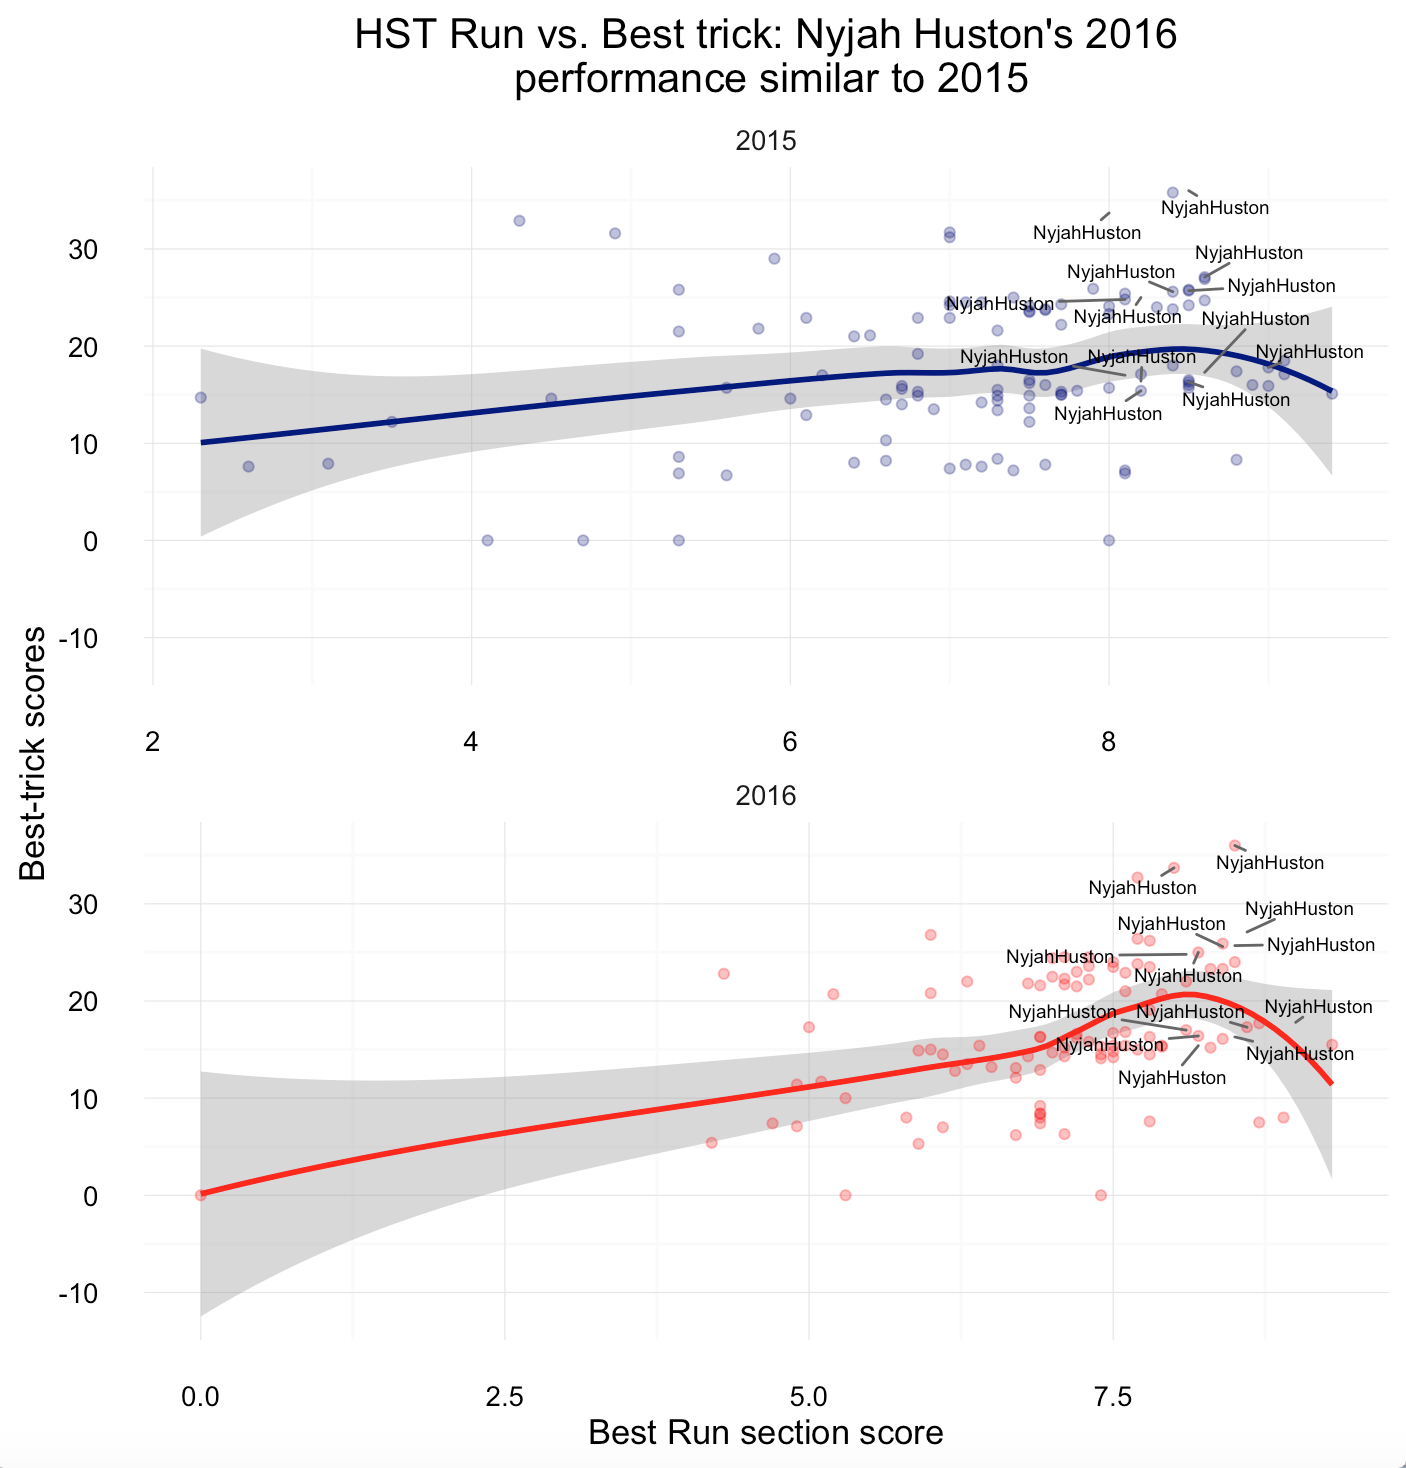
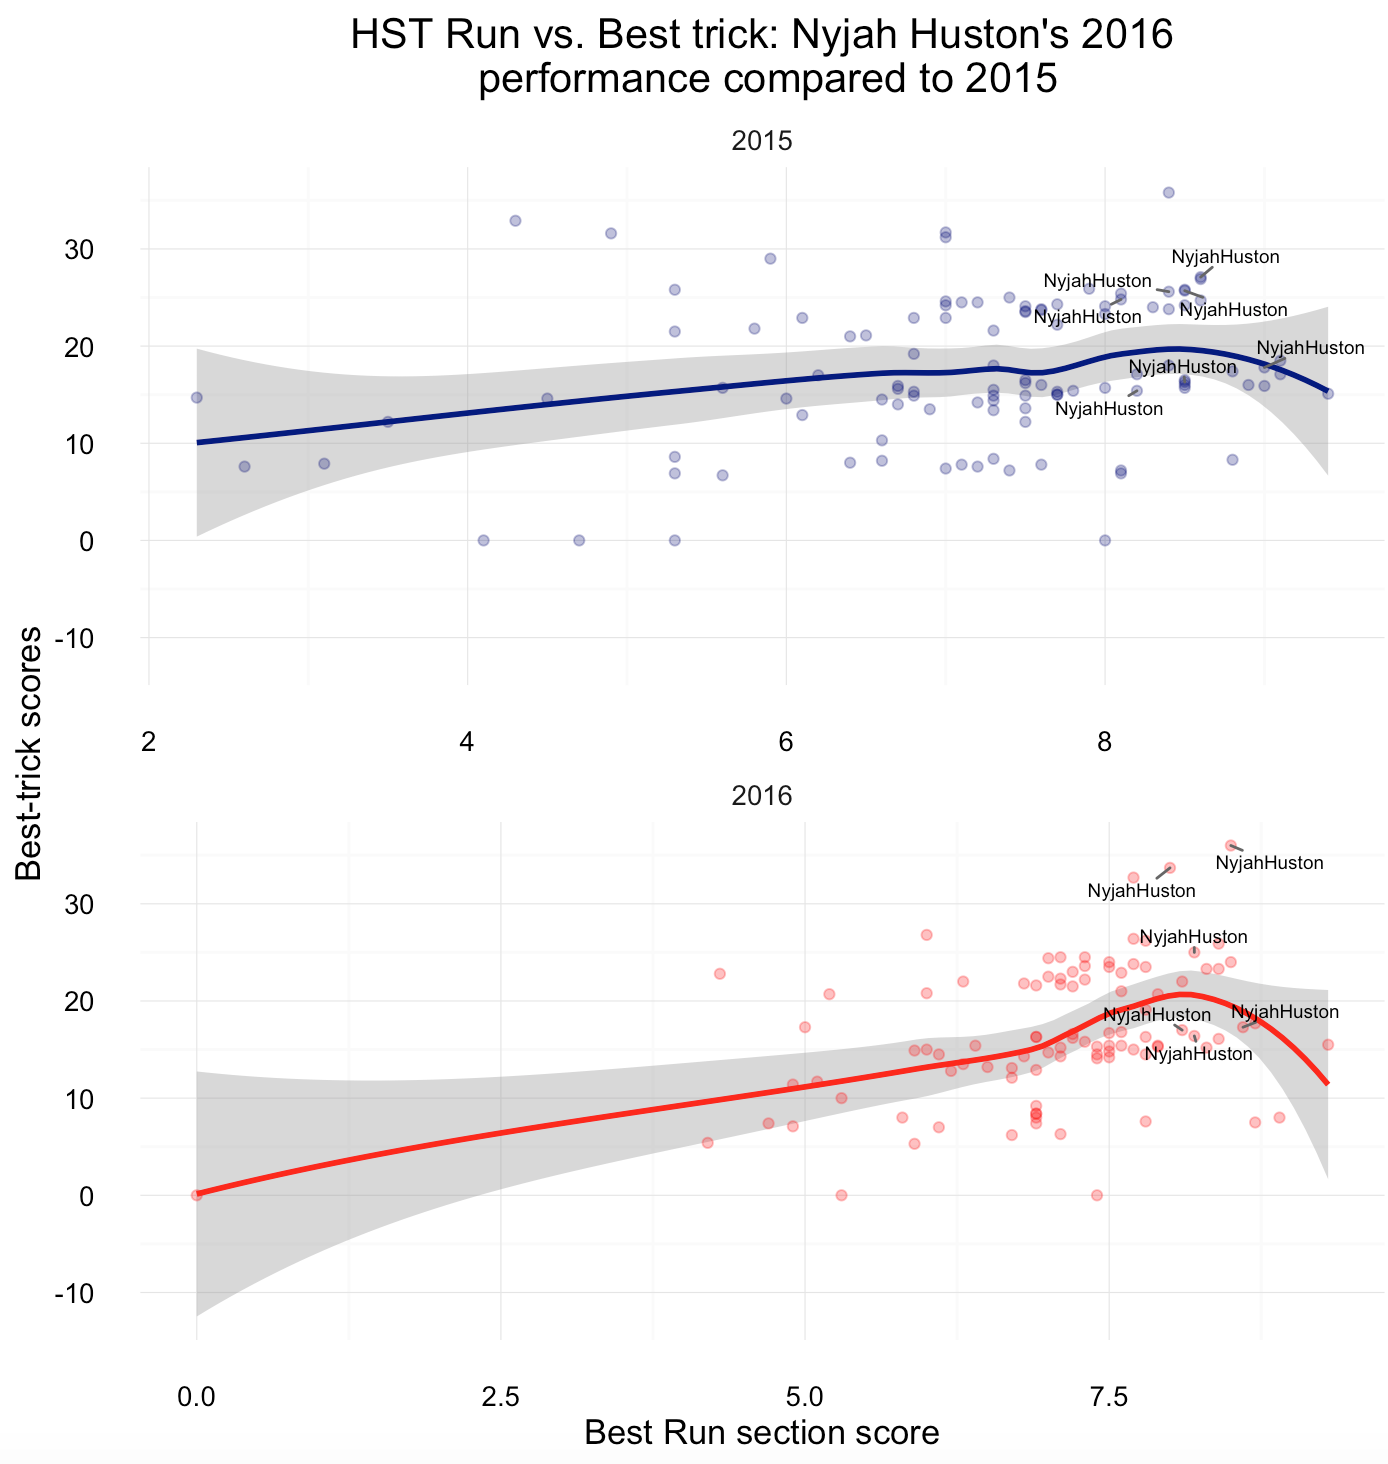
sls post up

diff --git a/_posts/2016-10-02-sls-win.md b/_posts/2016-10-02-sls-win.md
@@ -53,15 +53,15 @@ Launched in 2010, Street League Skateboarding is now an international competitiv
 
 ![pic1]({{ site.url }}/images/sls/plots/C.png)
 
-Comparing 2015 with 2016, Nyjah Huston, was very consistent. The two plots look almost the same for him.
+Comparing 2015 with 2016, Nyjah Huston's run scores dropped slightly (this could be due to the fact that the scoring changed overall).
 
 ![pic1]({{ site.url }}/images/sls/plots/D.png)
 
-Shane O'Neill could improve on his best trick and highest run scores...
+While Shane O'Neill could not improve on his highest run scores (but on best trick scores)...
 
 ![pic1]({{ site.url }}/images/sls/plots/E.png)
 
-...while Paul Rodriguez kept performing well across both sections.
+...Paul Rodriguez kept performing well across both sections.
 
 If a skater is strikingly good at the run section, but fails to succeed in the best trick section (or vice versa), he (or she, female Street League was introduced in 2015) is unlikely to win.
 
